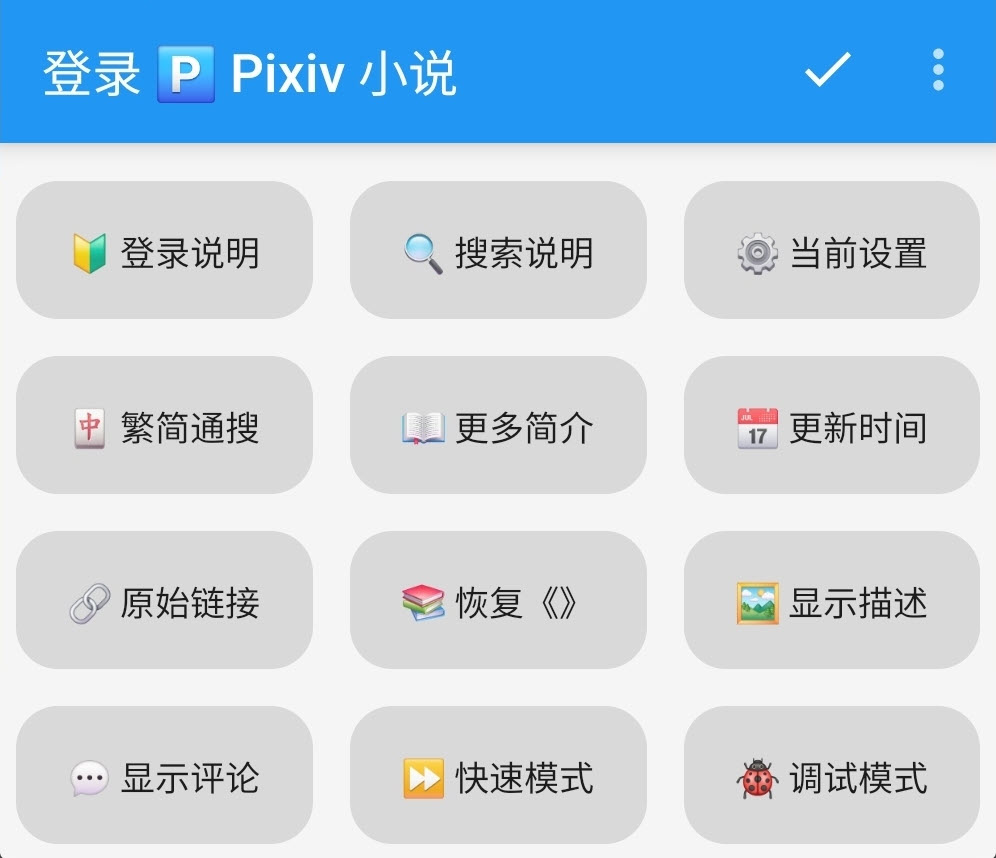
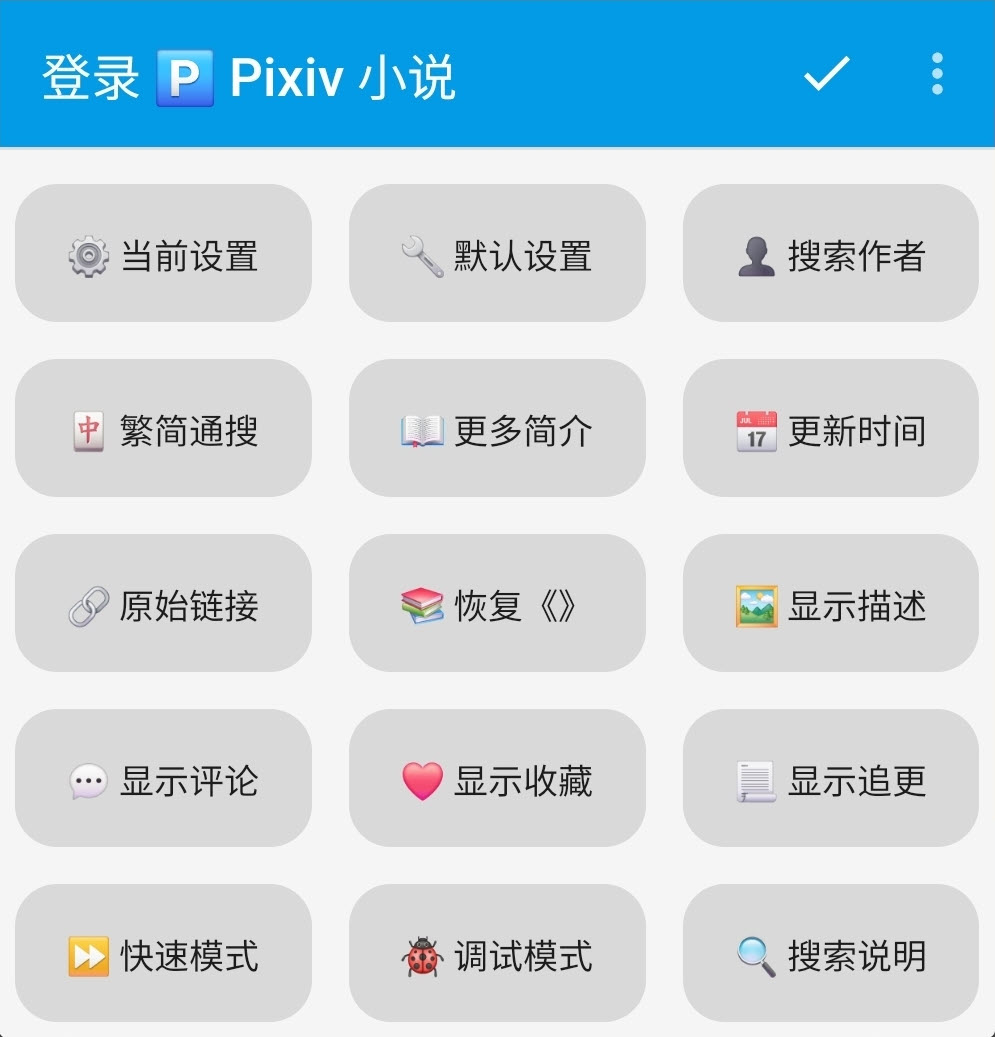
Pixiv 文档：更新书源 登录界面

diff --git a/doc/Pixiv.md b/doc/Pixiv.md
@@ -384,10 +384,11 @@ https://www.pixiv.net/users/16721009
 </details>
 
 
-### 5.登录界面
-<details><summary> 🅿 账号功能 </summary>
+### 5.书源 登录界面
+<details><summary> 🅿 账号功能（同上） </summary>
 
 #### 5.0 账号功能
+⚠ 登录账号/退出账号都要使用这里的按钮
 ![img](./pic/PixivLoginUIAccount.jpg)
 - 🅿 登录账号：登录 Pixiv 账号，并获取 cookie 和 csfrToken
 - ⚙ 账号设置：Pixiv 的浏览范围设置
@@ -395,7 +396,7 @@ https://www.pixiv.net/users/16721009
 </details>
 
 
-<details><summary> 📢 书源功能 </summary>
+<details><summary> 📢 书源功能（同上） </summary>
 
 #### 5.1 书源功能
 ![img](./pic/PixivLoginUIAccount.jpg)
@@ -428,9 +429,9 @@ https://www.pixiv.net/users/16721009
 
 #### 5.3 书源设置
 ![img](./pic/PixivLoginUISettings.jpg)
-- 🔰 登录说明：显示登录界面的功能说明
-- 🔍 搜索说明：显示搜索说明
 - ⚙ 当前设置：显示当前设置
+- ⚙ 默认设置：恢复默认设置
+- 👤 搜索作者：默认搜索作者
 - 🀄 繁简通搜：搜索进行繁简转换（搜索作者不转换）
 - 📖 更多简介：详情显示更多简介
 - 📅 更新时间：目录显示更新时间
@@ -440,6 +441,7 @@ https://www.pixiv.net/users/16721009
 - 💬 显示评论：章尾显示评论
 - ⏩ 快速模式：开启快速模式（关闭**默认搜索作者等**影响搜索速度的功能）
 - 🐞 调试模式：开启调试模式
+- 🔍 搜索说明：显示搜索说明
 </details>
 
 
